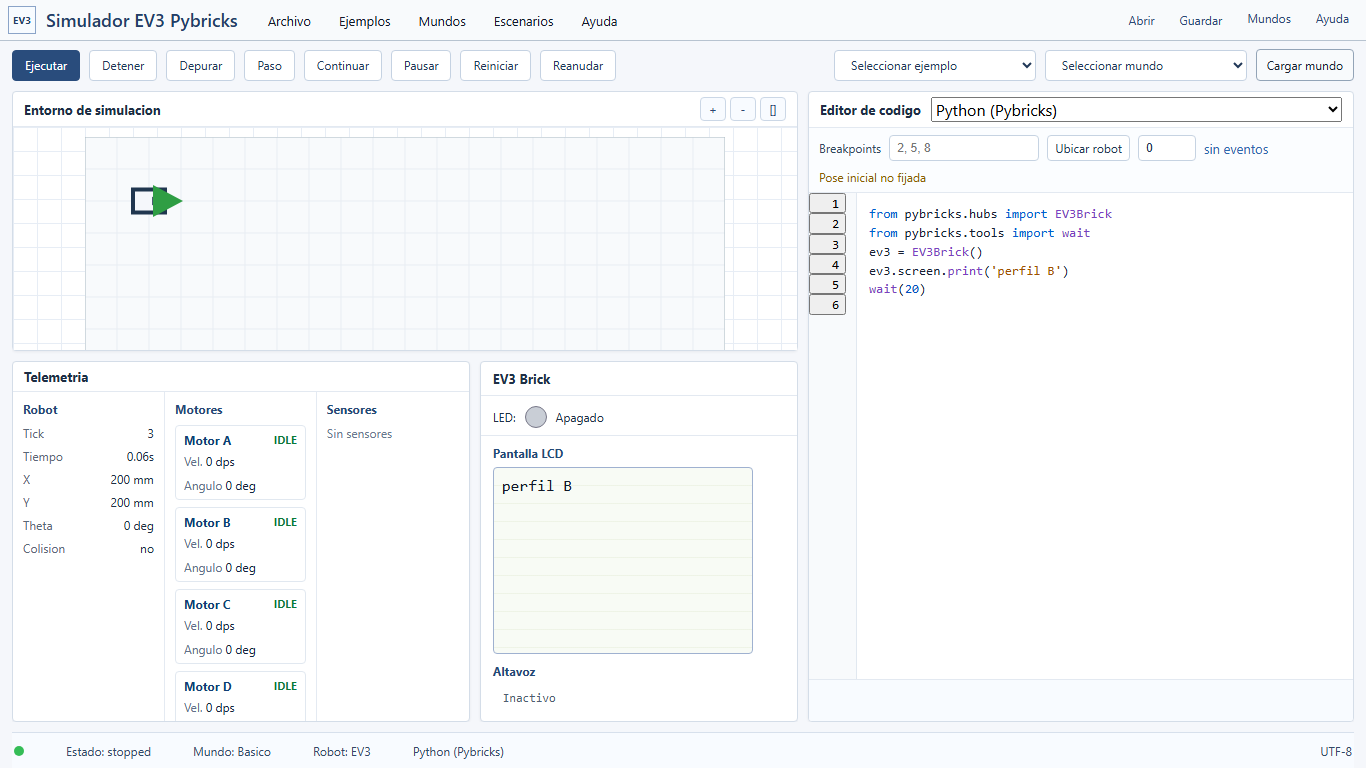
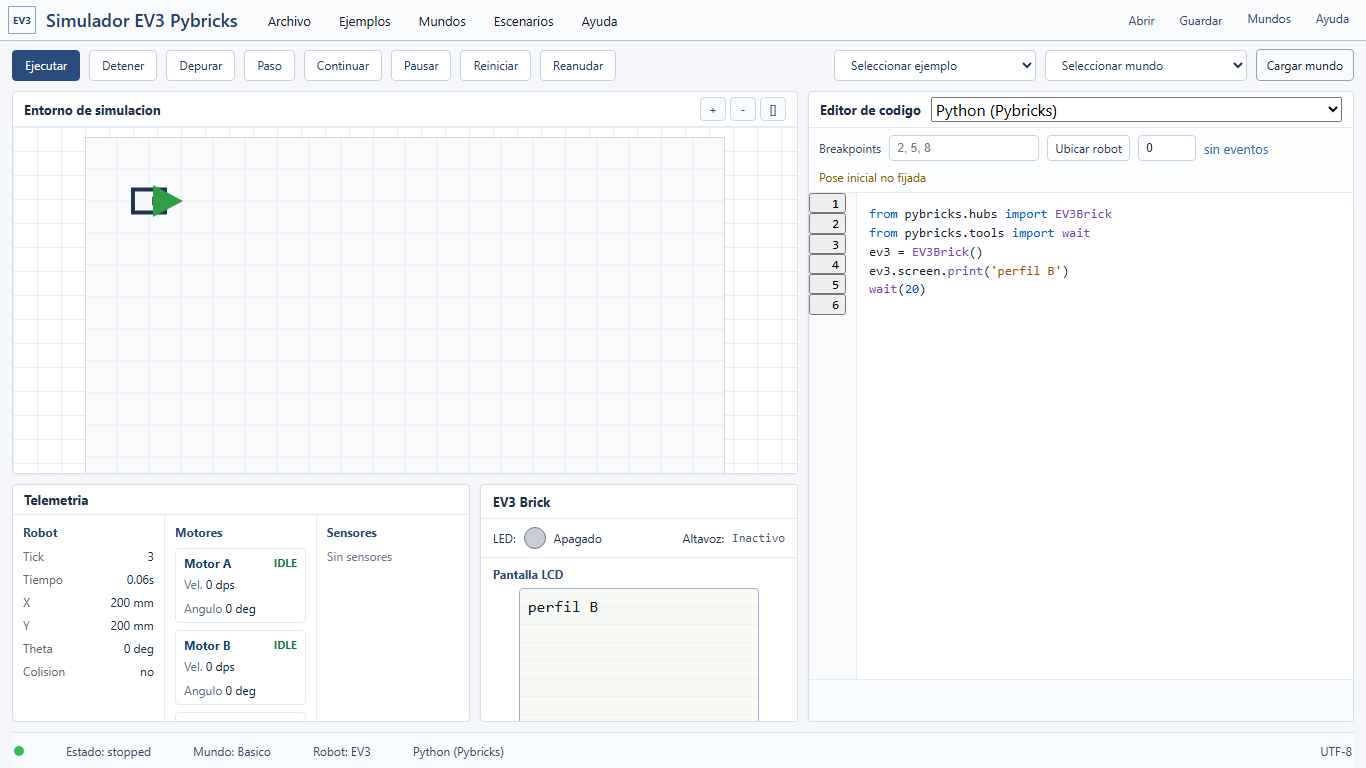
ui: ajustar panel ev3 y telemetria

diff --git a/simulador_ev3/web/static/css/app.css b/simulador_ev3/web/static/css/app.css
@@ -489,7 +489,7 @@ dd {
   min-width: 0;
   min-height: 0;
   display: grid;
-  grid-template-rows: minmax(240px, 0.72fr) minmax(300px, 1fr);
+  grid-template-rows: minmax(300px, 1fr) minmax(230px, 0.62fr);
   gap: 10px;
   overflow: hidden;
 }
@@ -654,11 +654,28 @@ dd {
   margin-bottom: 5px;
   color: #0f3f75;
   font-weight: 700;
+  min-width: 0;
+}
+
+.telemetry-card-title span {
+  min-width: 0;
 }
 
 .telemetry-state {
+  flex: 0 0 auto;
   color: #0a7a39;
   font-size: 11px;
+}
+
+.sensor-port {
+  flex: 0 0 auto;
+}
+
+.sensor-type {
+  overflow: hidden;
+  text-align: right;
+  text-overflow: ellipsis;
+  white-space: nowrap;
 }
 
 .telemetry-mini-list {
@@ -998,18 +1015,27 @@ dd {
 }
 
 .brick-card h3 {
-  margin: 9px 12px 6px;
+  margin: 8px 12px 6px;
   color: #244977;
   font-size: 12px;
 }
 
-.led-row {
+.brick-status-row {
   display: flex;
   align-items: center;
-  gap: 9px;
-  padding: 10px 12px 7px;
+  justify-content: space-between;
+  gap: 12px;
+  padding: 8px 12px;
   border-bottom: 1px solid #e3e9f1;
   font-size: 12px;
+}
+
+.led-row,
+.speaker-row {
+  display: flex;
+  align-items: center;
+  gap: 8px;
+  min-width: 0;
 }
 
 .led-row .led {
@@ -1022,7 +1048,7 @@ dd {
   height: auto;
   min-height: 0;
   aspect-ratio: 178 / 128;
-  margin: 0 12px;
+  margin: 0 auto;
   border: 1px solid #9fb1d0;
   border-radius: 4px;
   background:
@@ -1041,10 +1067,17 @@ dd {
   }
 }
 
+@media (max-height: 820px) {
+  .sim-brick-pane .brick-screen {
+    width: min(240px, calc(100% - 24px));
+  }
+}
+
 .speaker-status {
-  width: calc(100% - 24px);
-  margin: 0 12px 10px;
-  padding: 6px 10px;
+  width: auto;
+  min-width: 0;
+  margin: 0;
+  padding: 0;
   border: 0;
   background: transparent;
   color: #4f5d72;

diff --git a/simulador_ev3/web/templates/index.html b/simulador_ev3/web/templates/index.html
@@ -108,11 +108,12 @@
           <aside class="sim-panel sim-brick-pane">
             <section class="brick-card">
               <h2>EV3 Brick</h2>
-              <div class="led-row">LED: <span id="led" class="led"></span> <span id="ledText">Apagado</span></div>
+              <div class="brick-status-row">
+                <div class="led-row">LED: <span id="led" class="led"></span> <span id="ledText">Apagado</span></div>
+                <div class="speaker-row">Altavoz: <span id="speaker" class="speaker-status">Inactivo</span></div>
+              </div>
               <h3>Pantalla LCD</h3>
               <div id="screen" class="brick-screen"></div>
-              <h3>Altavoz</h3>
-              <div id="speaker" class="speaker-status">Inactivo</div>
             </section>
           </aside>
         </section>

diff --git a/simulador_ev3/web/static/js/simulation_app.js b/simulador_ev3/web/static/js/simulation_app.js
@@ -221,8 +221,8 @@
     return `
       <article class="telemetry-card">
         <div class="telemetry-card-title">
-          <span>${escapeHtml(sensor.port)}</span>
-          <span>${escapeHtml(sensor.type)}</span>
+          <span class="sensor-port">${escapeHtml(sensor.port)}</span>
+          <span class="sensor-type" title="${escapeHtml(sensor.type)}">${escapeHtml(sensor.type)}</span>
         </div>
         <dl class="telemetry-mini-list">${rows}</dl>
       </article>

diff --git a/tests/web/test_web_app.py b/tests/web/test_web_app.py
@@ -303,6 +303,8 @@ def test_ev3_lcd_keeps_original_screen_ratio(tmp_path):
     assert "width: min(260px, calc(100% - 24px));" in css
     assert "@media (min-height: 940px)" in css
     assert "width: min(356px, calc(100% - 24px));" in css
+    assert "@media (max-height: 820px)" in css
+    assert "width: min(240px, calc(100% - 24px));" in css
     assert "aspect-ratio: 178 / 128;" in css
     assert "grid-template-columns: minmax(430px, 1.18fr) minmax(300px, 0.82fr);" in css
     assert "grid-template-columns: repeat(3, minmax(120px, 1fr));" in css
